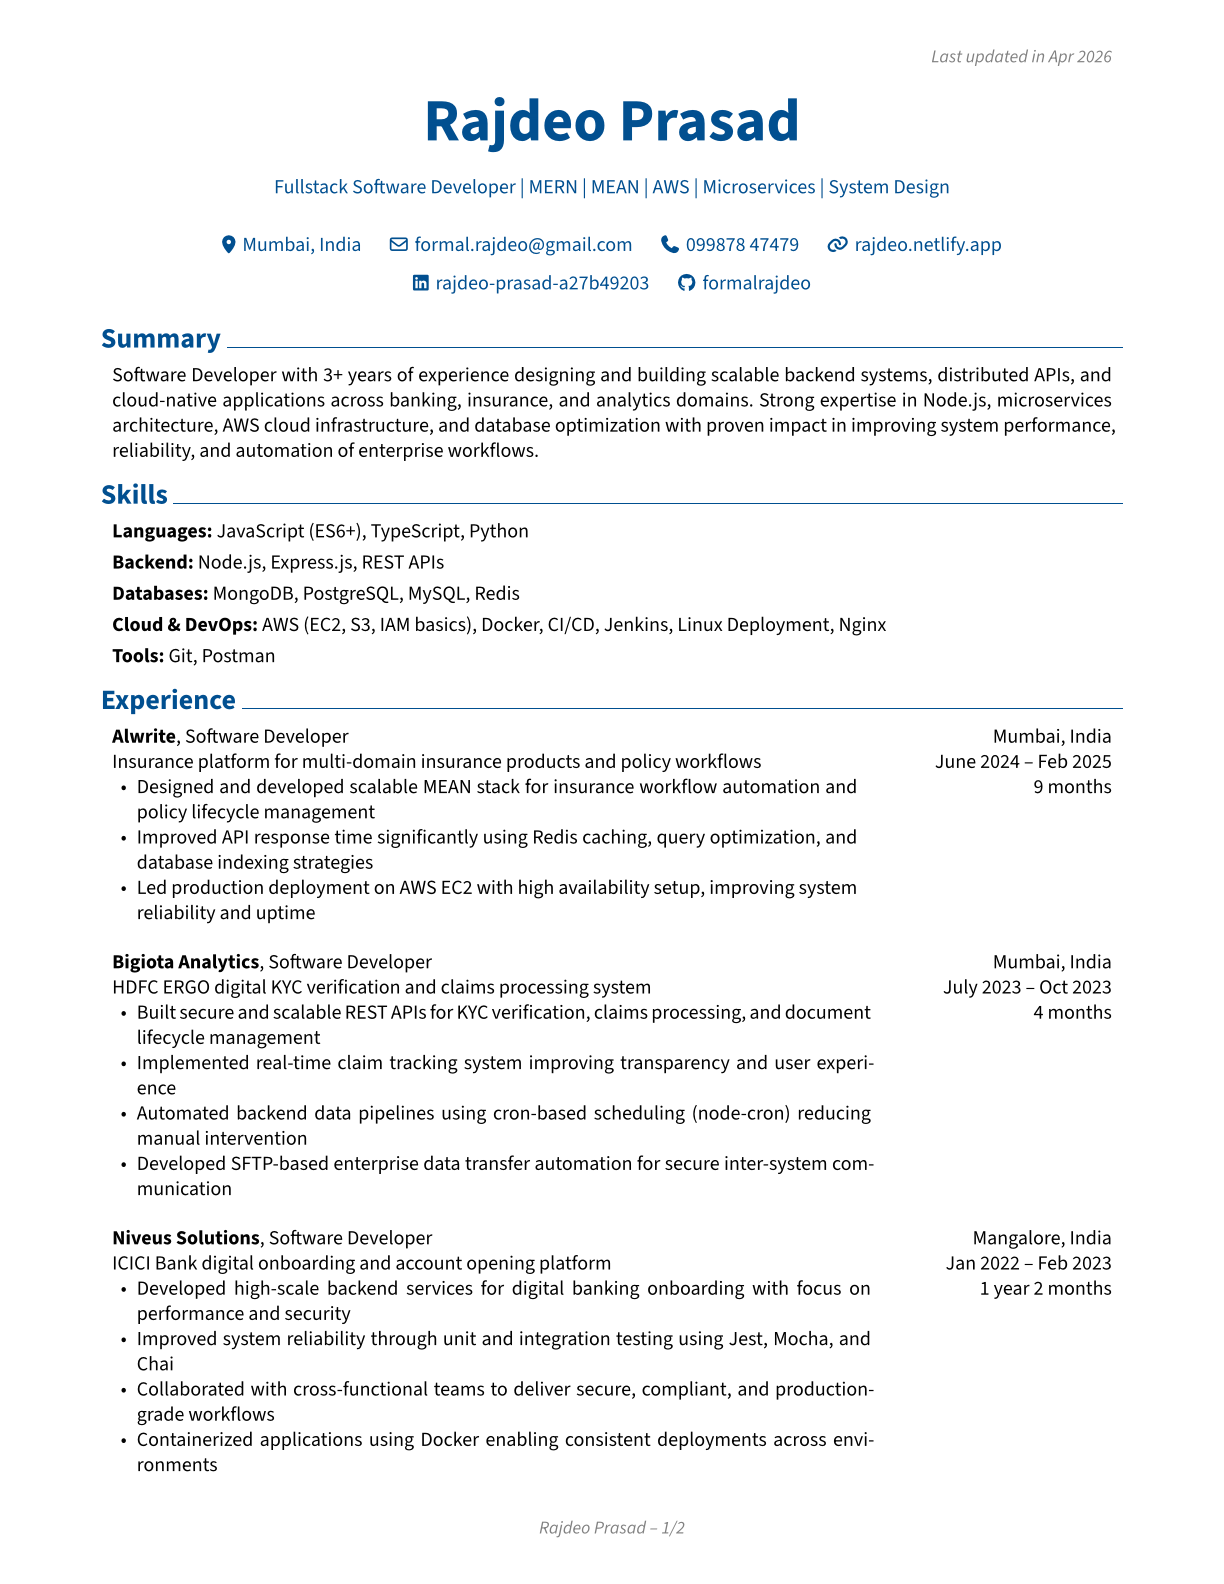
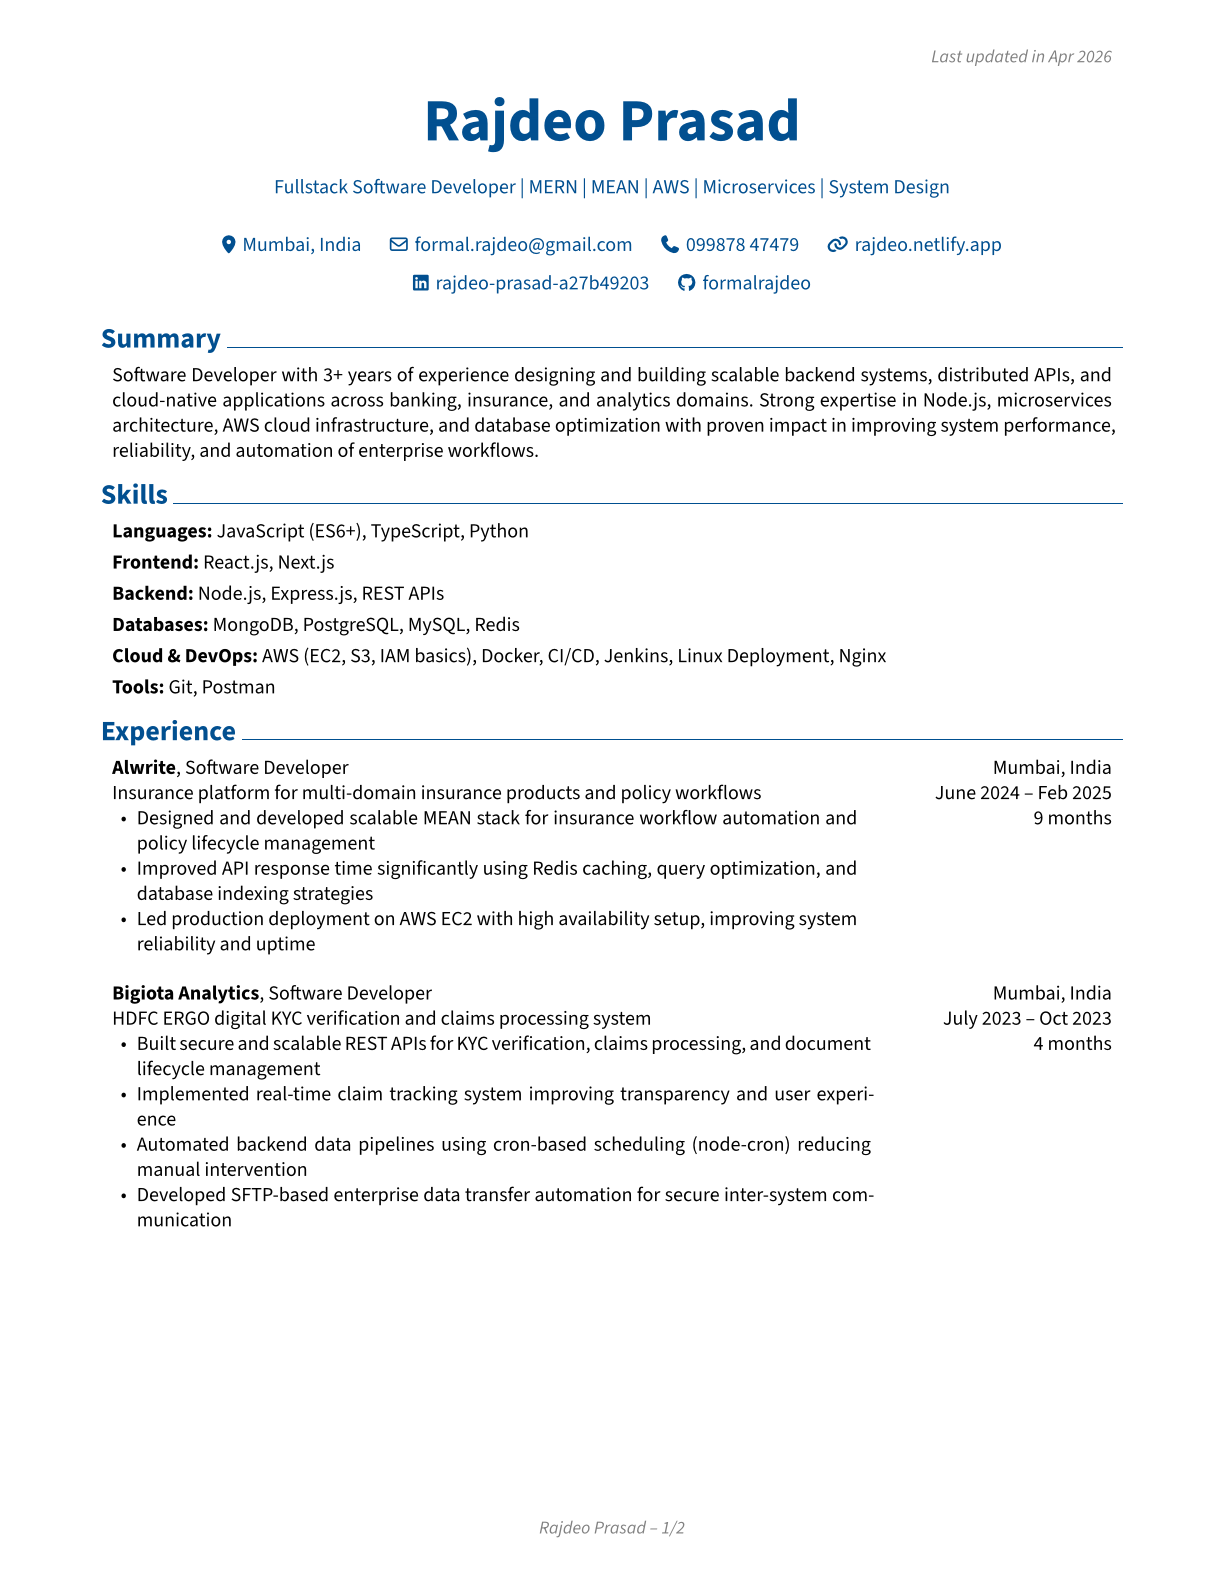
added FE info

diff --git a/rendercv_output/Rajdeo_Prasad_CV.md b/rendercv_output/Rajdeo_Prasad_CV.md
@@ -14,6 +14,8 @@ Software Developer with 3+ years of experience designing and building scalable b
 # Skills
 **Languages:** JavaScript (ES6+), TypeScript, Python
 
+**Frontend:** React.js, Next.js
+
 **Backend:** Node.js, Express.js, REST APIs
 
 **Databases:** MongoDB, PostgreSQL, MySQL, Redis
